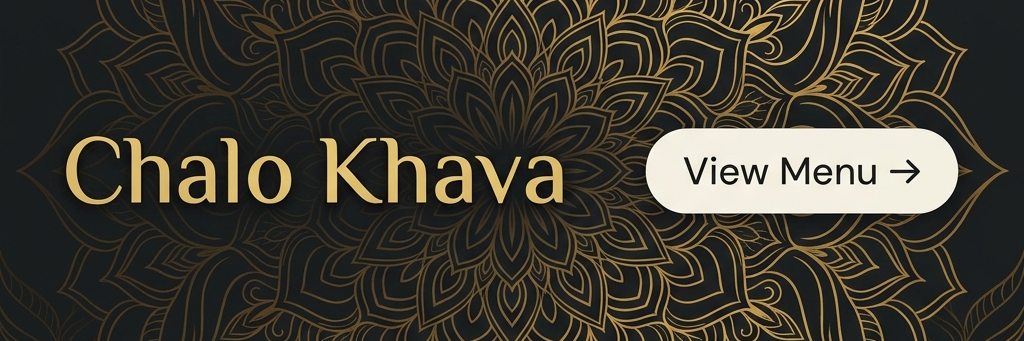
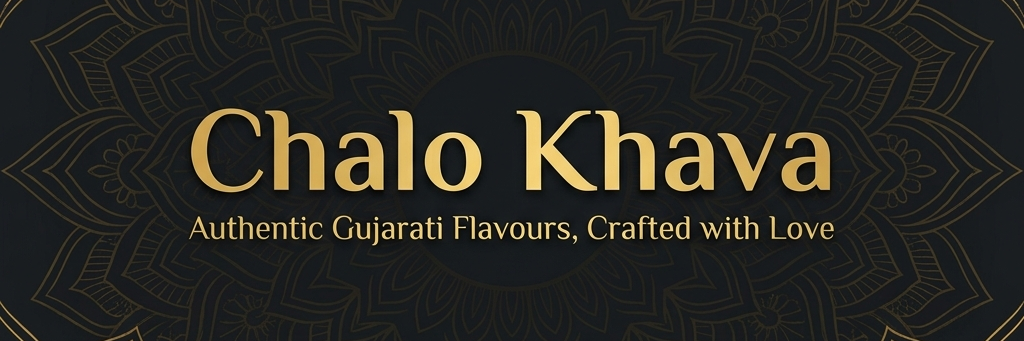
Update files

diff --git a/index.html b/index.html
@@ -56,7 +56,7 @@
     <div class="hero-bg"></div>
     <div class="hero-overlay"></div>
     <div class="hero-content">
-      <p class="hero-eyebrow reveal-up"><h3>Your Favourite Since 2010</h3></p>
+      <p class="hero-eyebrow reveal-up">Your Favourite Since 2010</p>
       <h1 class="hero-title reveal-up">
         <span class="script-line">Where Every Meal is a</span>
         <span class="hero-highlight">Celebration</span>